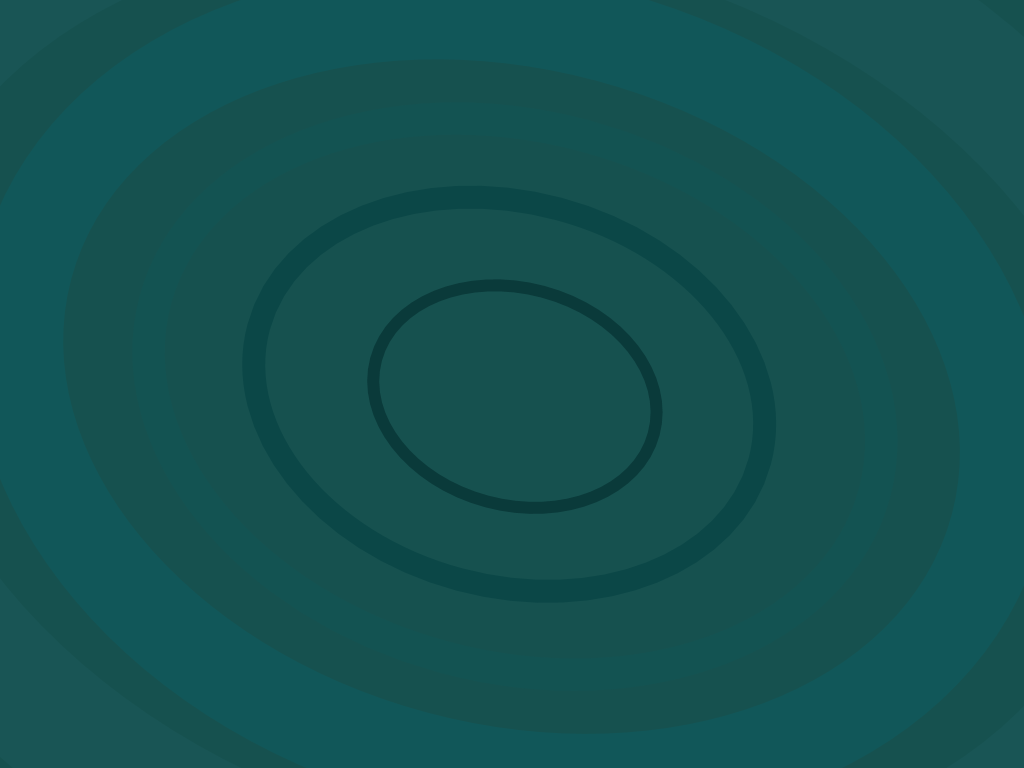
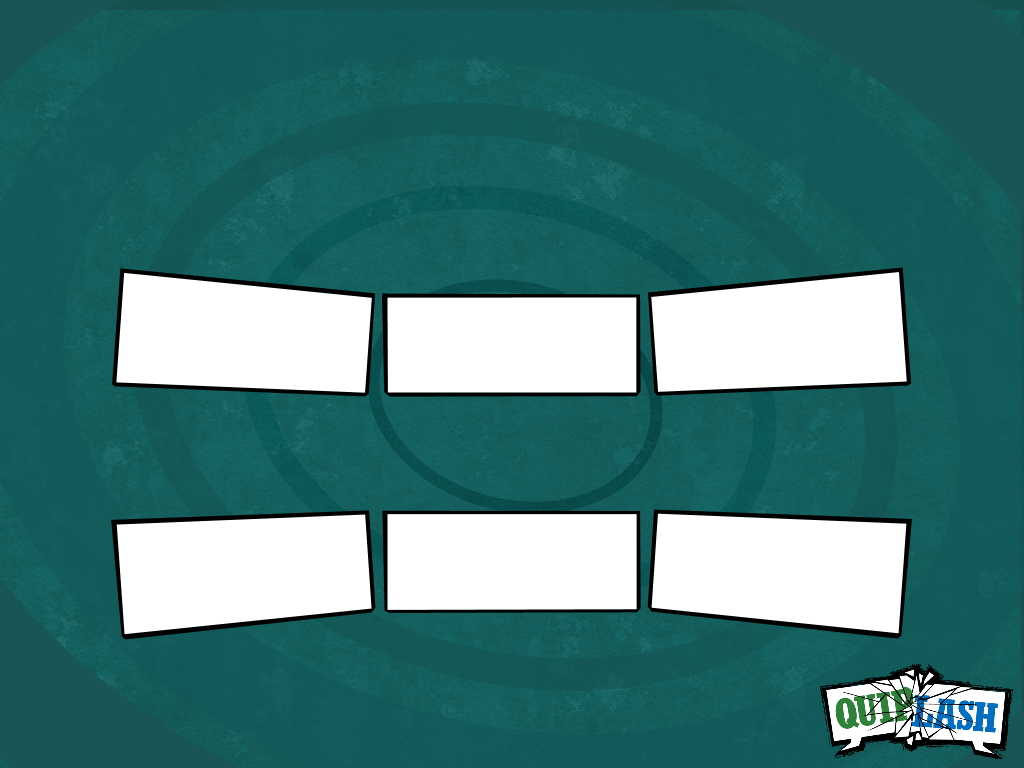
non-copyrighted images

diff --git a/routes/images.js b/routes/images.js
@@ -17,15 +17,15 @@ var defaultText = " #Quiplash @jackboxgames";
 var tweetLink = "http://twitter.com/home?status=";
 
 var positions = {
-    1: {"x": -250,  "y": -60},
-    2: {"x": 0,     "y": -60},
-    3: {"x": 250,   "y": -60},
-    4: {"x": -250,  "y": 40},
-    5: {"x": 0,     "y": 40},
-    6: {"x": 250,   "y": 40},
-    7: {"x": -250,  "y": 140},
-    8: {"x": 0,     "y": 140},
-    9: {"x": 250,   "y": 140}
+    1: {"x": -205,  "y": -40},
+    2: {"x": 0,     "y": -35},
+    3: {"x": 205,   "y": -40},
+    4: {"x": -205,  "y": 50},
+    5: {"x": 0,     "y": 50},
+    6: {"x": 205,   "y": 50},
+    7: {"x": -205,  "y": 140},
+    8: {"x": 0,     "y": 135},
+    9: {"x": 205,   "y": 140}
 };
 
 var arrangements = {
@@ -155,20 +155,15 @@ function makeImage(prompt, choices, cb){
         .fill("#000000");
         
         for(var i = 0; i < choices.length; i++){
-
-
-
             var position = positions[arrangement[i]];
             image
-            .fill("#FFFFFF")
-            .stroke("#000000", 3)
-            .drawRectangle(position.x-100 + (768/2), position.y-40 + (576/2),
-                position.x+100 + (768/2), position.y+40 + (576/2), 2, 2)
+            // .fill("#FFFFFF")
+            // .stroke("#000000", 3)
+            // .drawRectangle(position.x-100 + (768/2), position.y-40 + (576/2),
+            //     position.x+100 + (768/2), position.y+40 + (576/2), 2, 2)
             .fill("#000000")
             .stroke("#000000", 1)
             .drawText(position.x, position.y, wrapText(choices[i], 30), 'center');
-
-
         }
 
 
@@ -177,12 +172,12 @@ function makeImage(prompt, choices, cb){
         .font(__dirname + '/../public/fonts/Arvo-Regular.ttf', 30)
         .stroke("#000000", 1)
         .fill("#000000")
-        .drawText(0, -150, wrapText(prompt, 42), 'center')
+        .drawText(0, -135, wrapText(prompt, 42), 'center')
         
         // Prompt
         .stroke("#2fb3ed", 1)
         .fill("#2fb3ed")
-        .drawText(0, -155, wrapText(prompt, 42), 'center')
+        .drawText(0, -140, wrapText(prompt, 42), 'center')
         
         .toBuffer('png', function(err, buffer){
             cb(buffer);
